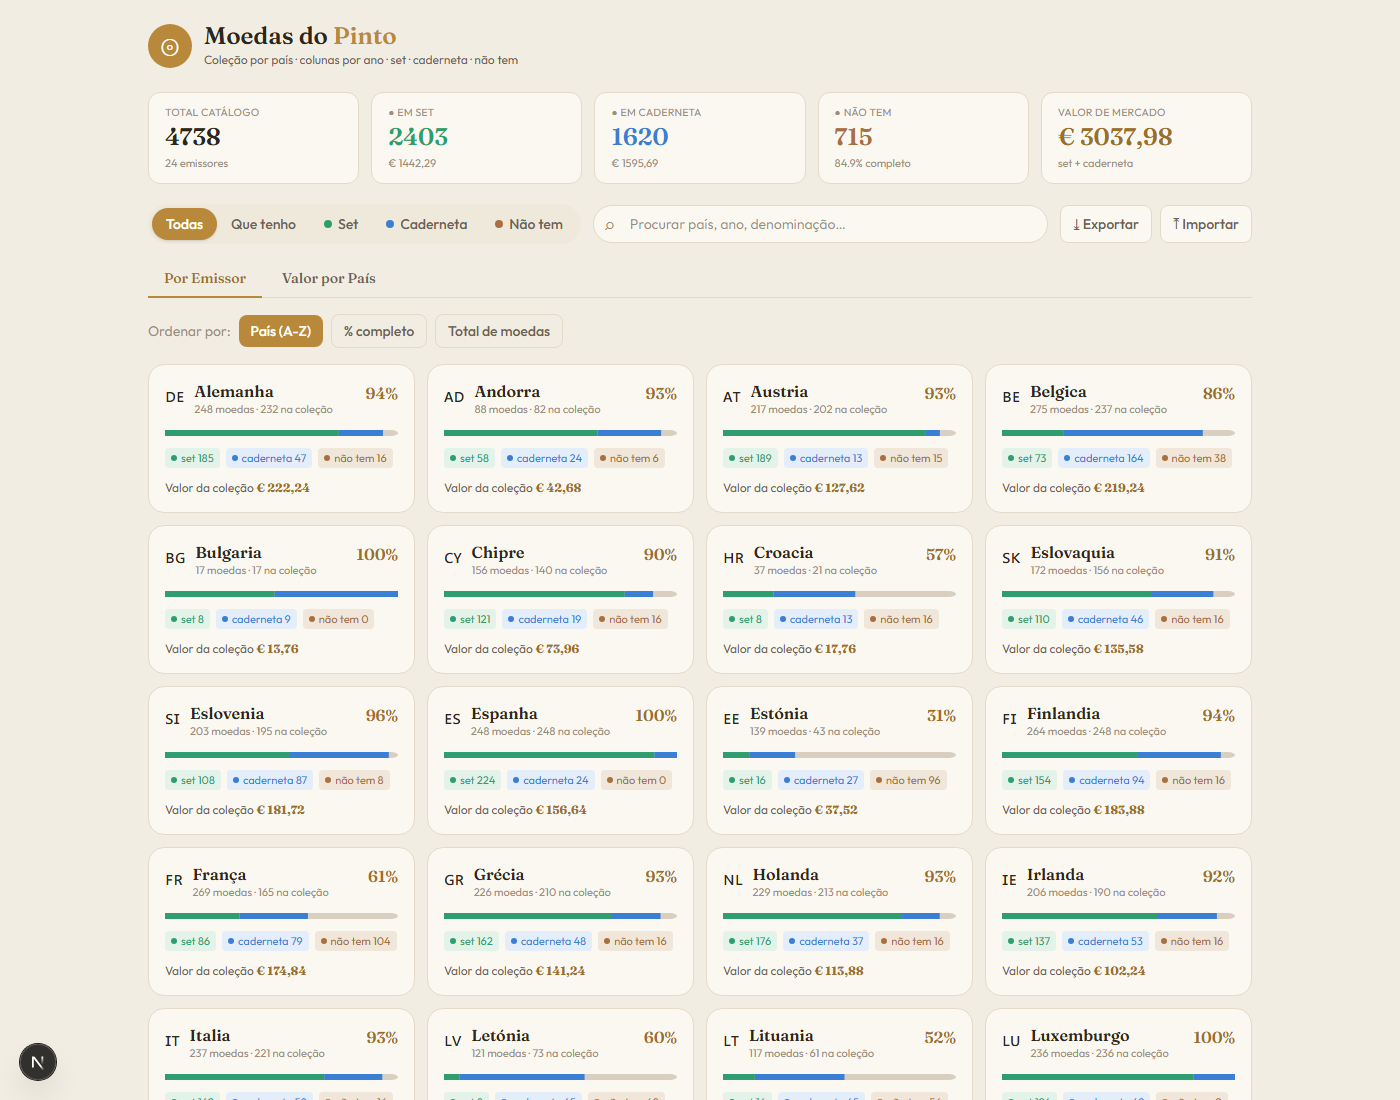
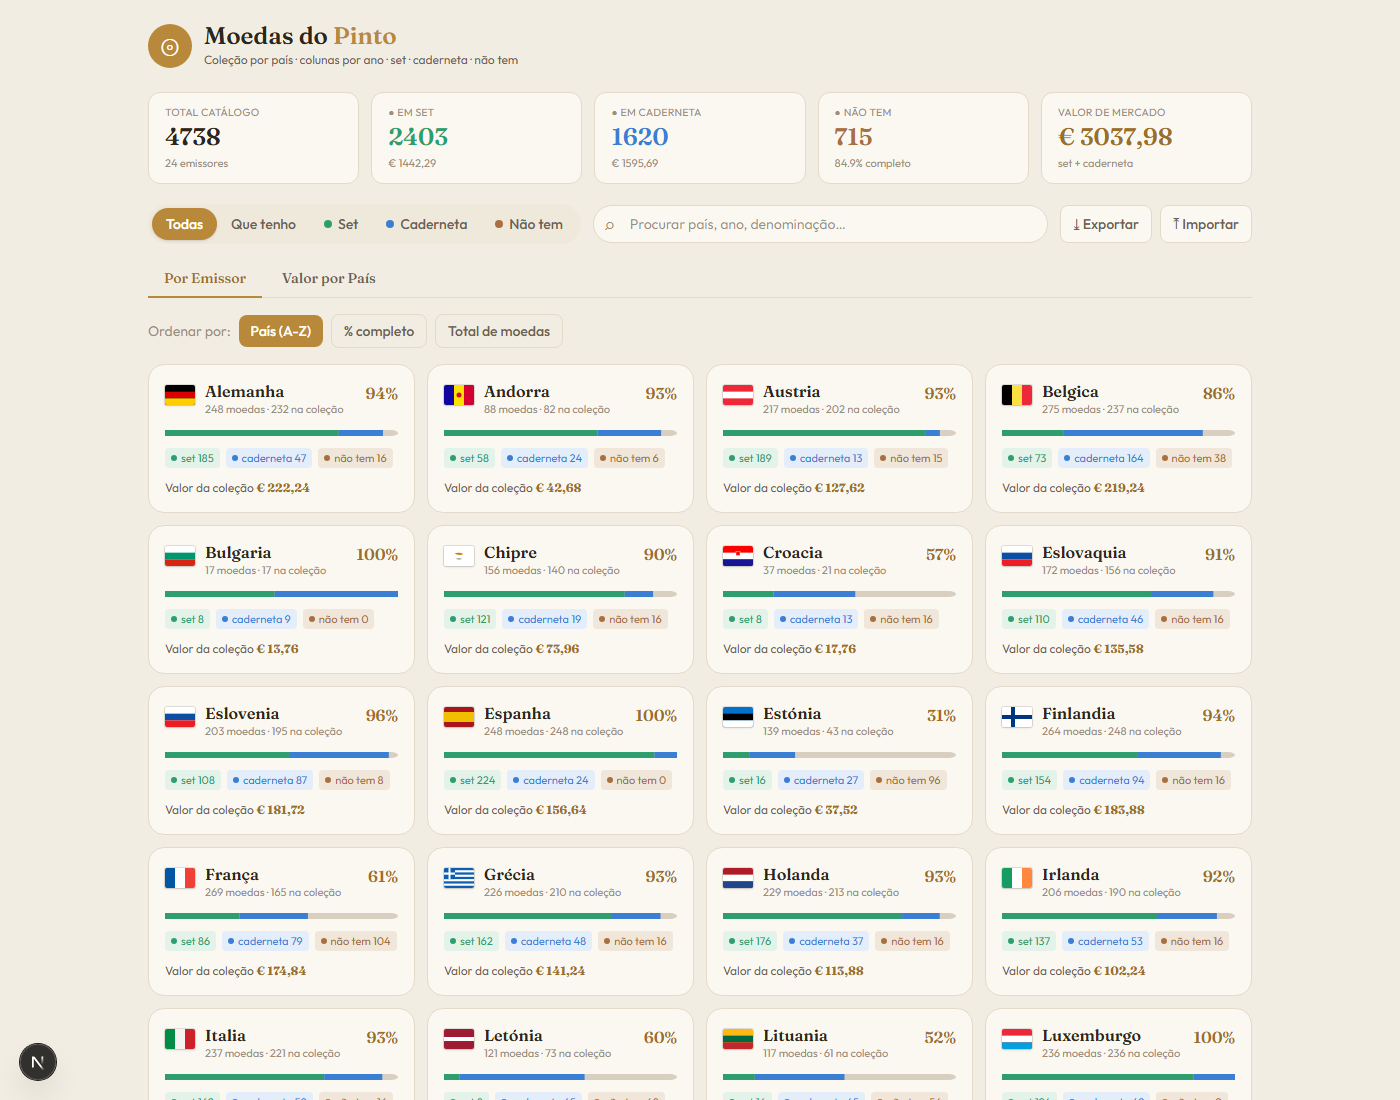
Bandeiras em SVG (emoji não renderiza no Chrome/Windows)
- components/Flag.tsx: SVG das 24 bandeiras portado do HTML original
- Substitui flagOf (emoji) por <Flag> em PaisCard, PaisDetalhe, CoinSheet, ValorPorPais
- Remove lib/flags.ts (emoji, já não usado)
- Cores nacionais são fixas — exceção legítima à regra de tokens

Verificado: 24 bandeiras SVG renderizam na grelha (headless, onde emoji falhava).

diff --git a/components/Flag.tsx b/components/Flag.tsx
@@ -1,0 +1,53 @@
+// Bandeiras em SVG (portadas do HTML original). Emoji de bandeira não renderiza
+// no Chrome em Windows, daí SVG. Cores nacionais são fixas — exceção legítima à
+// regra de tokens (uma bandeira tem as cores que tem).
+const FLAGS: Record<string, string> = {
+  de: '<rect width="60" height="40" fill="#000"/><rect y="13.3" width="60" height="13.4" fill="#D00"/><rect y="26.7" width="60" height="13.3" fill="#FFCE00"/>',
+  ad: '<rect width="60" height="40" fill="#10069F"/><rect x="20" width="20" height="40" fill="#FEDF00"/><rect x="40" width="20" height="40" fill="#D50032"/><circle cx="30" cy="20" r="5" fill="#C8102E"/>',
+  at: '<rect width="60" height="40" fill="#ED2939"/><rect y="13.3" width="60" height="13.4" fill="#fff"/>',
+  be: '<rect width="20" height="40" fill="#000"/><rect x="20" width="20" height="40" fill="#FAE042"/><rect x="40" width="20" height="40" fill="#ED2939"/>',
+  bg: '<rect width="60" height="40" fill="#fff"/><rect y="13.3" width="60" height="13.4" fill="#00966E"/><rect y="26.7" width="60" height="13.3" fill="#D62612"/>',
+  cy: '<rect width="60" height="40" fill="#fff"/><path d="M21 15 q9 -3 18 1 q-9 4 -18 -1z" fill="#D57800"/><path d="M25 25 q3 3 6 0 M35 25 q-3 3 -6 0" stroke="#4E5B31" stroke-width="1.2" fill="none"/>',
+  hr: '<rect width="60" height="40" fill="#FF0000"/><rect y="13.3" width="60" height="13.4" fill="#fff"/><rect y="26.7" width="60" height="13.3" fill="#171796"/><rect x="26" y="11" width="8" height="8" fill="#FF0000" stroke="#fff" stroke-width="0.8"/>',
+  sk: '<rect width="60" height="40" fill="#fff"/><rect y="13.3" width="60" height="13.4" fill="#0B4EA2"/><rect y="26.7" width="60" height="13.3" fill="#EE1C25"/>',
+  si: '<rect width="60" height="40" fill="#fff"/><rect y="13.3" width="60" height="13.4" fill="#0B4EA2"/><rect y="26.7" width="60" height="13.3" fill="#ED1C24"/>',
+  es: '<rect width="60" height="40" fill="#AA151B"/><rect y="10" width="60" height="20" fill="#F1BF00"/>',
+  ee: '<rect width="60" height="40" fill="#0072CE"/><rect y="13.3" width="60" height="13.4" fill="#000"/><rect y="26.7" width="60" height="13.3" fill="#fff"/>',
+  fi: '<rect width="60" height="40" fill="#fff"/><rect y="16" width="60" height="8" fill="#003580"/><rect x="18" width="8" height="40" fill="#003580"/>',
+  fr: '<rect width="20" height="40" fill="#0055A4"/><rect x="20" width="20" height="40" fill="#fff"/><rect x="40" width="20" height="40" fill="#EF4135"/>',
+  gr: '<rect width="60" height="40" fill="#0D5EAF"/><rect y="4.4" width="60" height="4.4" fill="#fff"/><rect y="13.3" width="60" height="4.4" fill="#fff"/><rect y="22.2" width="60" height="4.4" fill="#fff"/><rect y="31.1" width="60" height="4.4" fill="#fff"/><rect width="22" height="22.2" fill="#0D5EAF"/><rect x="9" width="4" height="22.2" fill="#fff"/><rect y="9" width="22" height="4.4" fill="#fff"/>',
+  nl: '<rect width="60" height="40" fill="#AE1C28"/><rect y="13.3" width="60" height="13.4" fill="#fff"/><rect y="26.7" width="60" height="13.3" fill="#21468B"/>',
+  ie: '<rect width="20" height="40" fill="#169B62"/><rect x="20" width="20" height="40" fill="#fff"/><rect x="40" width="20" height="40" fill="#FF883E"/>',
+  it: '<rect width="20" height="40" fill="#008C45"/><rect x="20" width="20" height="40" fill="#F4F5F0"/><rect x="40" width="20" height="40" fill="#CD212A"/>',
+  lv: '<rect width="60" height="40" fill="#9E1B32"/><rect y="16" width="60" height="8" fill="#fff"/>',
+  lt: '<rect width="60" height="40" fill="#FDB913"/><rect y="13.3" width="60" height="13.4" fill="#006A44"/><rect y="26.7" width="60" height="13.3" fill="#C1272D"/>',
+  lu: '<rect width="60" height="40" fill="#ED2939"/><rect y="13.3" width="60" height="13.4" fill="#fff"/><rect y="26.7" width="60" height="13.3" fill="#00A1DE"/>',
+  mt: '<rect width="60" height="40" fill="#fff"/><rect x="30" width="30" height="40" fill="#CF142B"/><rect x="4" y="3" width="10" height="10" fill="#fff" stroke="#C8A951" stroke-width="1"/>',
+  pt: '<rect width="60" height="40" fill="#DA291C"/><rect width="24" height="40" fill="#046A38"/><circle cx="24" cy="20" r="5.5" fill="#FFE000" stroke="#fff" stroke-width="0.7"/>',
+  sm: '<rect width="60" height="40" fill="#fff"/><rect y="20" width="60" height="20" fill="#5EB6E4"/>',
+  va: '<rect width="60" height="40" fill="#FFE000"/><rect x="30" width="30" height="40" fill="#fff"/><circle cx="44" cy="20" r="4.5" fill="none" stroke="#9b9b9b" stroke-width="1.4"/><path d="M44 20 l6 6" stroke="#9b9b9b" stroke-width="1.6"/>',
+}
+
+interface FlagProps {
+  code: string
+  size?: number
+}
+
+export default function Flag({ code, size = 22 }: FlagProps) {
+  const inner = FLAGS[code]
+  const w = Math.round(size * 1.5)
+  if (!inner) {
+    return <span className="inline-block align-middle text-mp-ink-faint" aria-hidden>🪙</span>
+  }
+  return (
+    <svg
+      viewBox="0 0 60 40"
+      width={w}
+      height={size}
+      className="inline-block align-middle rounded-[2px] shadow-sm ring-1 ring-black/10"
+      role="img"
+      aria-label={code}
+      dangerouslySetInnerHTML={{ __html: inner }}
+    />
+  )
+}

diff --git a/components/CoinSheet.tsx b/components/CoinSheet.tsx
@@ -1,10 +1,10 @@
 import { useEffect, useState } from 'react'
-import { flagOf } from '@/lib/flags'
 import { estadoDe, denomCurta } from '@/lib/types'
 import { GRADES, GRADE_DEFAULT, gradeMult, eur } from '@/lib/valor'
 import { numistaSearchUrl } from '@/lib/numista'
 import type { DisplayRow, Estado } from '@/lib/types'
 import CoinDisc from './CoinDisc'
+import Flag from './Flag'
 
 export interface CoinSheetSave {
   estado: Estado
@@ -79,8 +79,8 @@ export default function CoinSheet({ row, onClose, onSave }: CoinSheetProps) {
         <div className="flex items-start gap-3 mb-5">
           <CoinDisc short={short} ano={row.issue.ano} estado={estado} size={72} />
           <div className="flex-1">
-            <h2 className="font-serif text-lg font-semibold leading-tight text-mp-ink">
-              {flagOf(row.coin.pais_codigo)} {row.coin.pais_nome}
+            <h2 className="font-serif text-lg font-semibold leading-tight text-mp-ink flex items-center gap-2">
+              <Flag code={row.coin.pais_codigo} size={20} /> {row.coin.pais_nome}
             </h2>
             <p className="text-sm text-mp-ink-soft">
               {row.coin.denominacao ?? row.coin.titulo} · <strong>{row.issue.ano}</strong>

diff --git a/components/PaisDetalhe.tsx b/components/PaisDetalhe.tsx
@@ -1,9 +1,9 @@
 import { useMemo } from 'react'
-import { flagOf } from '@/lib/flags'
 import { estadoDe, denomCurta } from '@/lib/types'
 import { valorReal, eur } from '@/lib/valor'
 import type { DisplayRow } from '@/lib/types'
 import DenominacaoRow from './DenominacaoRow'
+import Flag from './Flag'
 
 interface PaisDetalheProps {
   paisCodigo: string
@@ -85,7 +85,7 @@ export default function PaisDetalhe({
 
       <div className="border border-mp-border rounded-2xl overflow-hidden bg-mp-surface">
         <div className="flex flex-wrap items-center gap-3 px-4 py-3 border-b border-mp-border">
-          <span className="text-2xl">{flagOf(paisCodigo)}</span>
+          <Flag code={paisCodigo} size={26} />
           <div className="flex-1 min-w-[160px]">
             <h2 className="font-serif text-lg font-semibold text-mp-ink">{paisNome}</h2>
             <p className="text-xs text-mp-ink-faint">{total} moedas · {naColecao} na coleção · {pct}%</p>

diff --git a/components/ValorPorPais.tsx b/components/ValorPorPais.tsx
@@ -1,6 +1,6 @@
-import { flagOf } from '@/lib/flags'
 import { eur } from '@/lib/valor'
 import type { PaisAgregado } from '@/lib/types'
+import Flag from './Flag'
 
 interface ValorPorPaisProps {
   paises: PaisAgregado[]
@@ -28,7 +28,7 @@ export default function ValorPorPais({ paises, totalGeral }: ValorPorPaisProps) 
           const cadPct = max > 0 ? (p.valorCad / max) * 100 : 0
           return (
             <div key={p.codigo} className="flex items-center gap-2 text-xs">
-              <span className="w-5 flex-none text-center">{flagOf(p.codigo)}</span>
+              <span className="w-6 flex-none text-center"><Flag code={p.codigo} size={13} /></span>
               <span className="w-20 flex-none truncate text-mp-ink-soft">{p.nome}</span>
               <svg viewBox="0 0 100 8" preserveAspectRatio="none" className="flex-1 h-2" aria-hidden>
                 <rect x="0" y="0" width="100" height="8" rx="4" fill="var(--mp-coin-empty)" />

diff --git a/components/PaisCard.tsx b/components/PaisCard.tsx
@@ -1,6 +1,6 @@
-import { flagOf } from '@/lib/flags'
 import { eur } from '@/lib/valor'
 import type { PaisAgregado } from '@/lib/types'
+import Flag from './Flag'
 
 interface PaisCardProps {
   p: PaisAgregado
@@ -19,7 +19,7 @@ export default function PaisCard({ p, onClick }: PaisCardProps) {
       className="text-left bg-mp-surface border border-mp-border rounded-2xl p-4 hover:border-mp-gold transition-colors"
     >
       <div className="flex items-start gap-2.5">
-        <span className="text-xl flex-none">{flagOf(p.codigo)}</span>
+        <span className="flex-none"><Flag code={p.codigo} size={20} /></span>
         <div className="flex-1 min-w-0">
           <h3 className="font-serif font-semibold text-mp-ink leading-tight truncate">{p.nome}</h3>
           <p className="text-[11px] text-mp-ink-faint">{p.total} moedas · {naColecao} na coleção</p>
